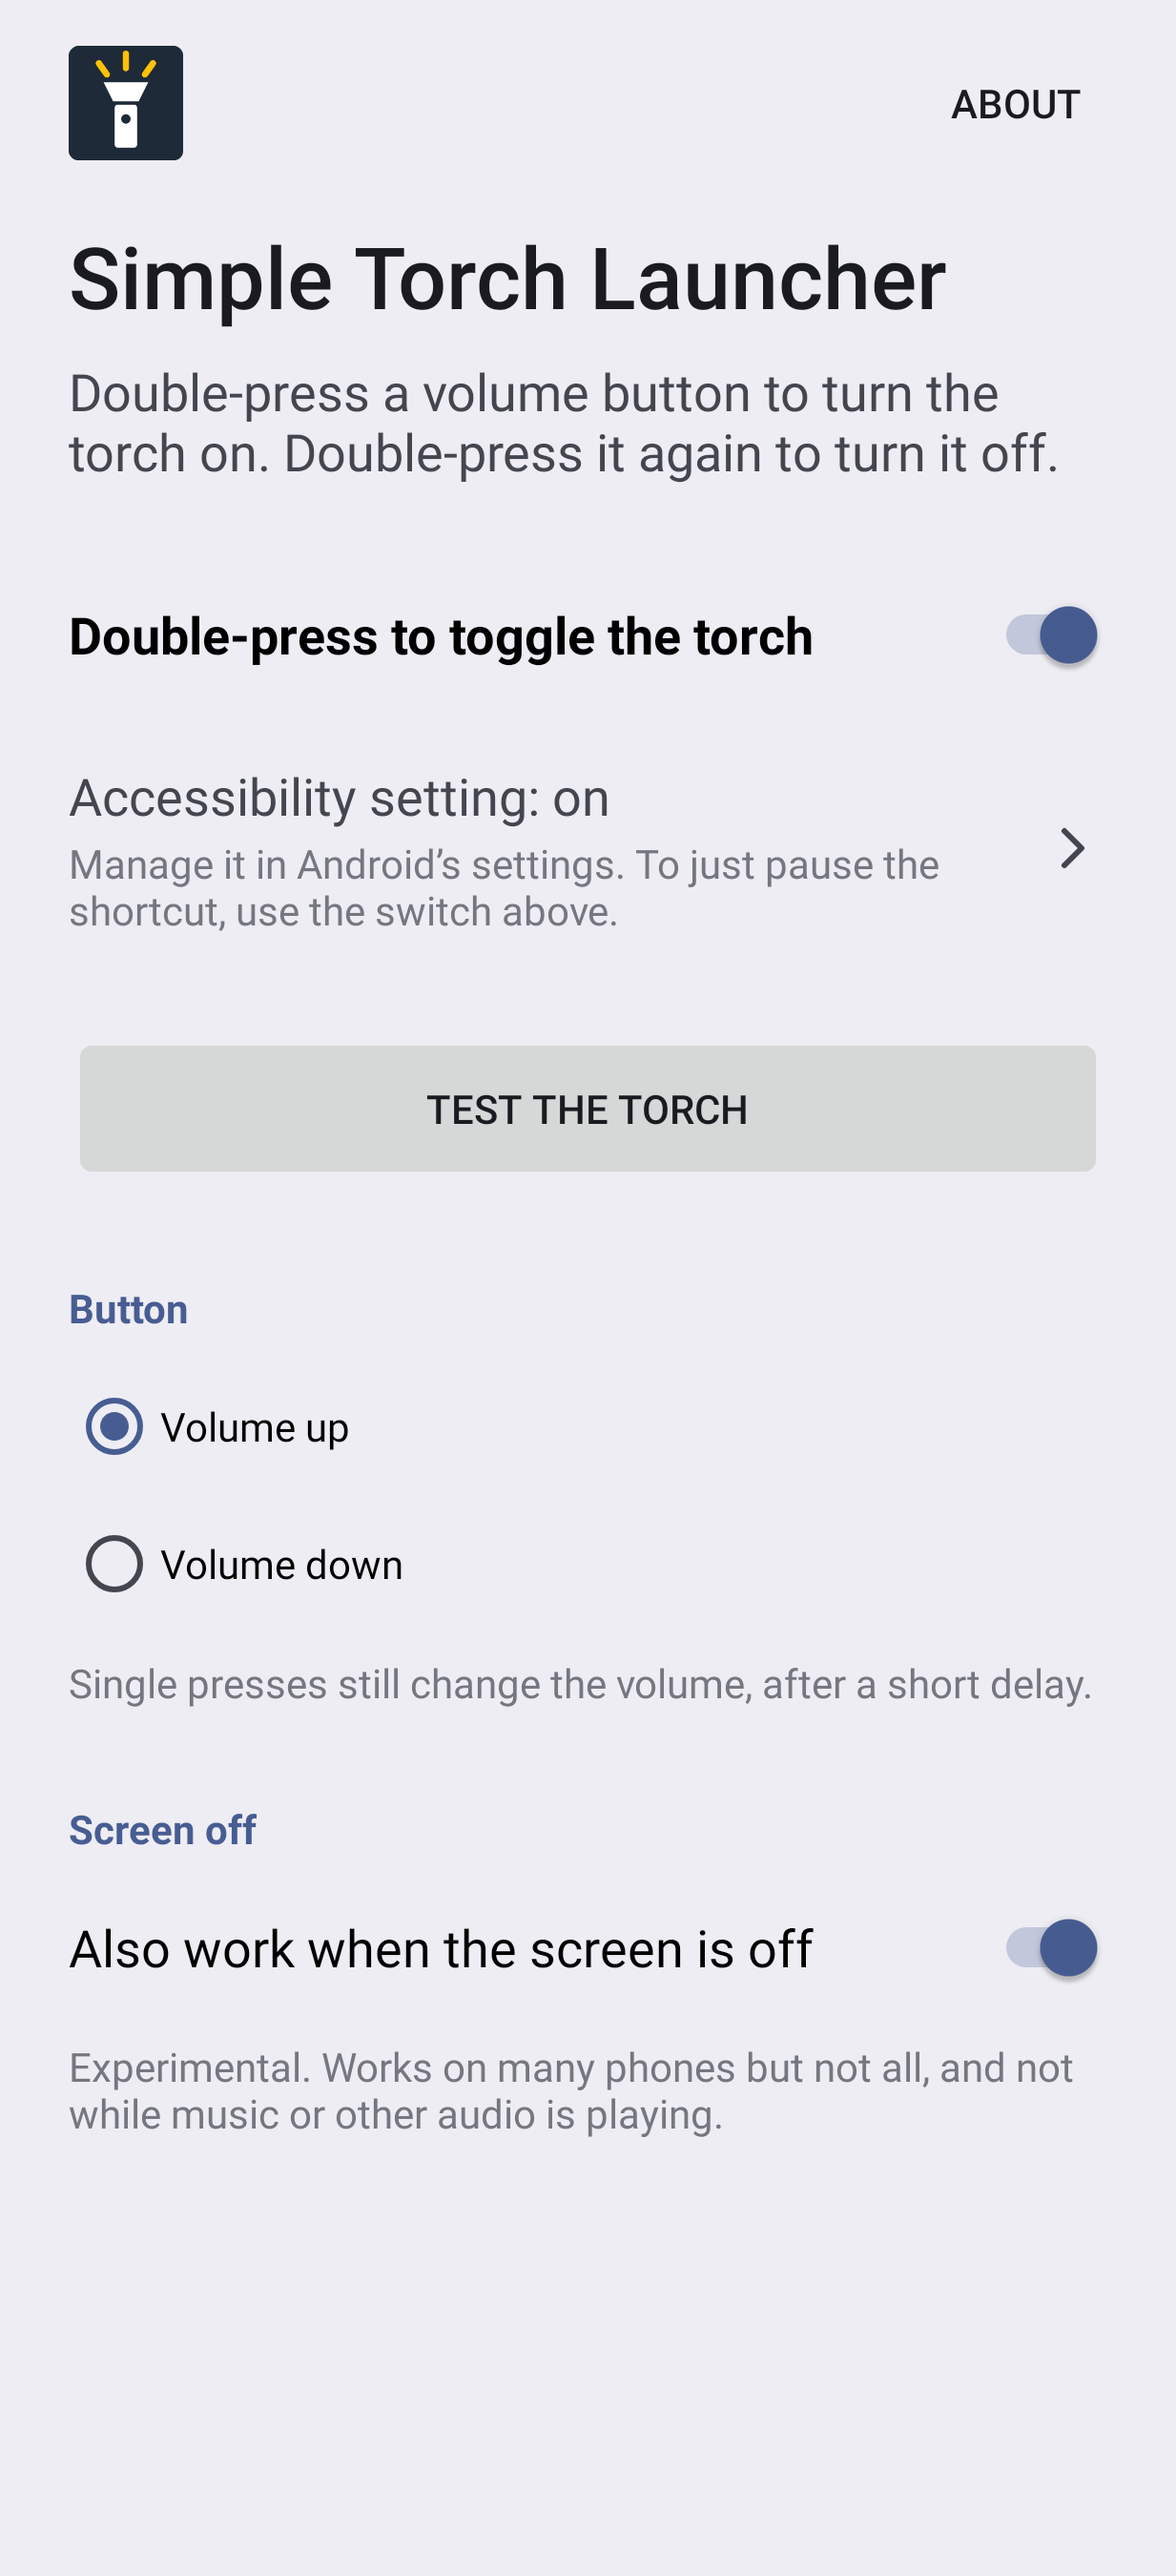
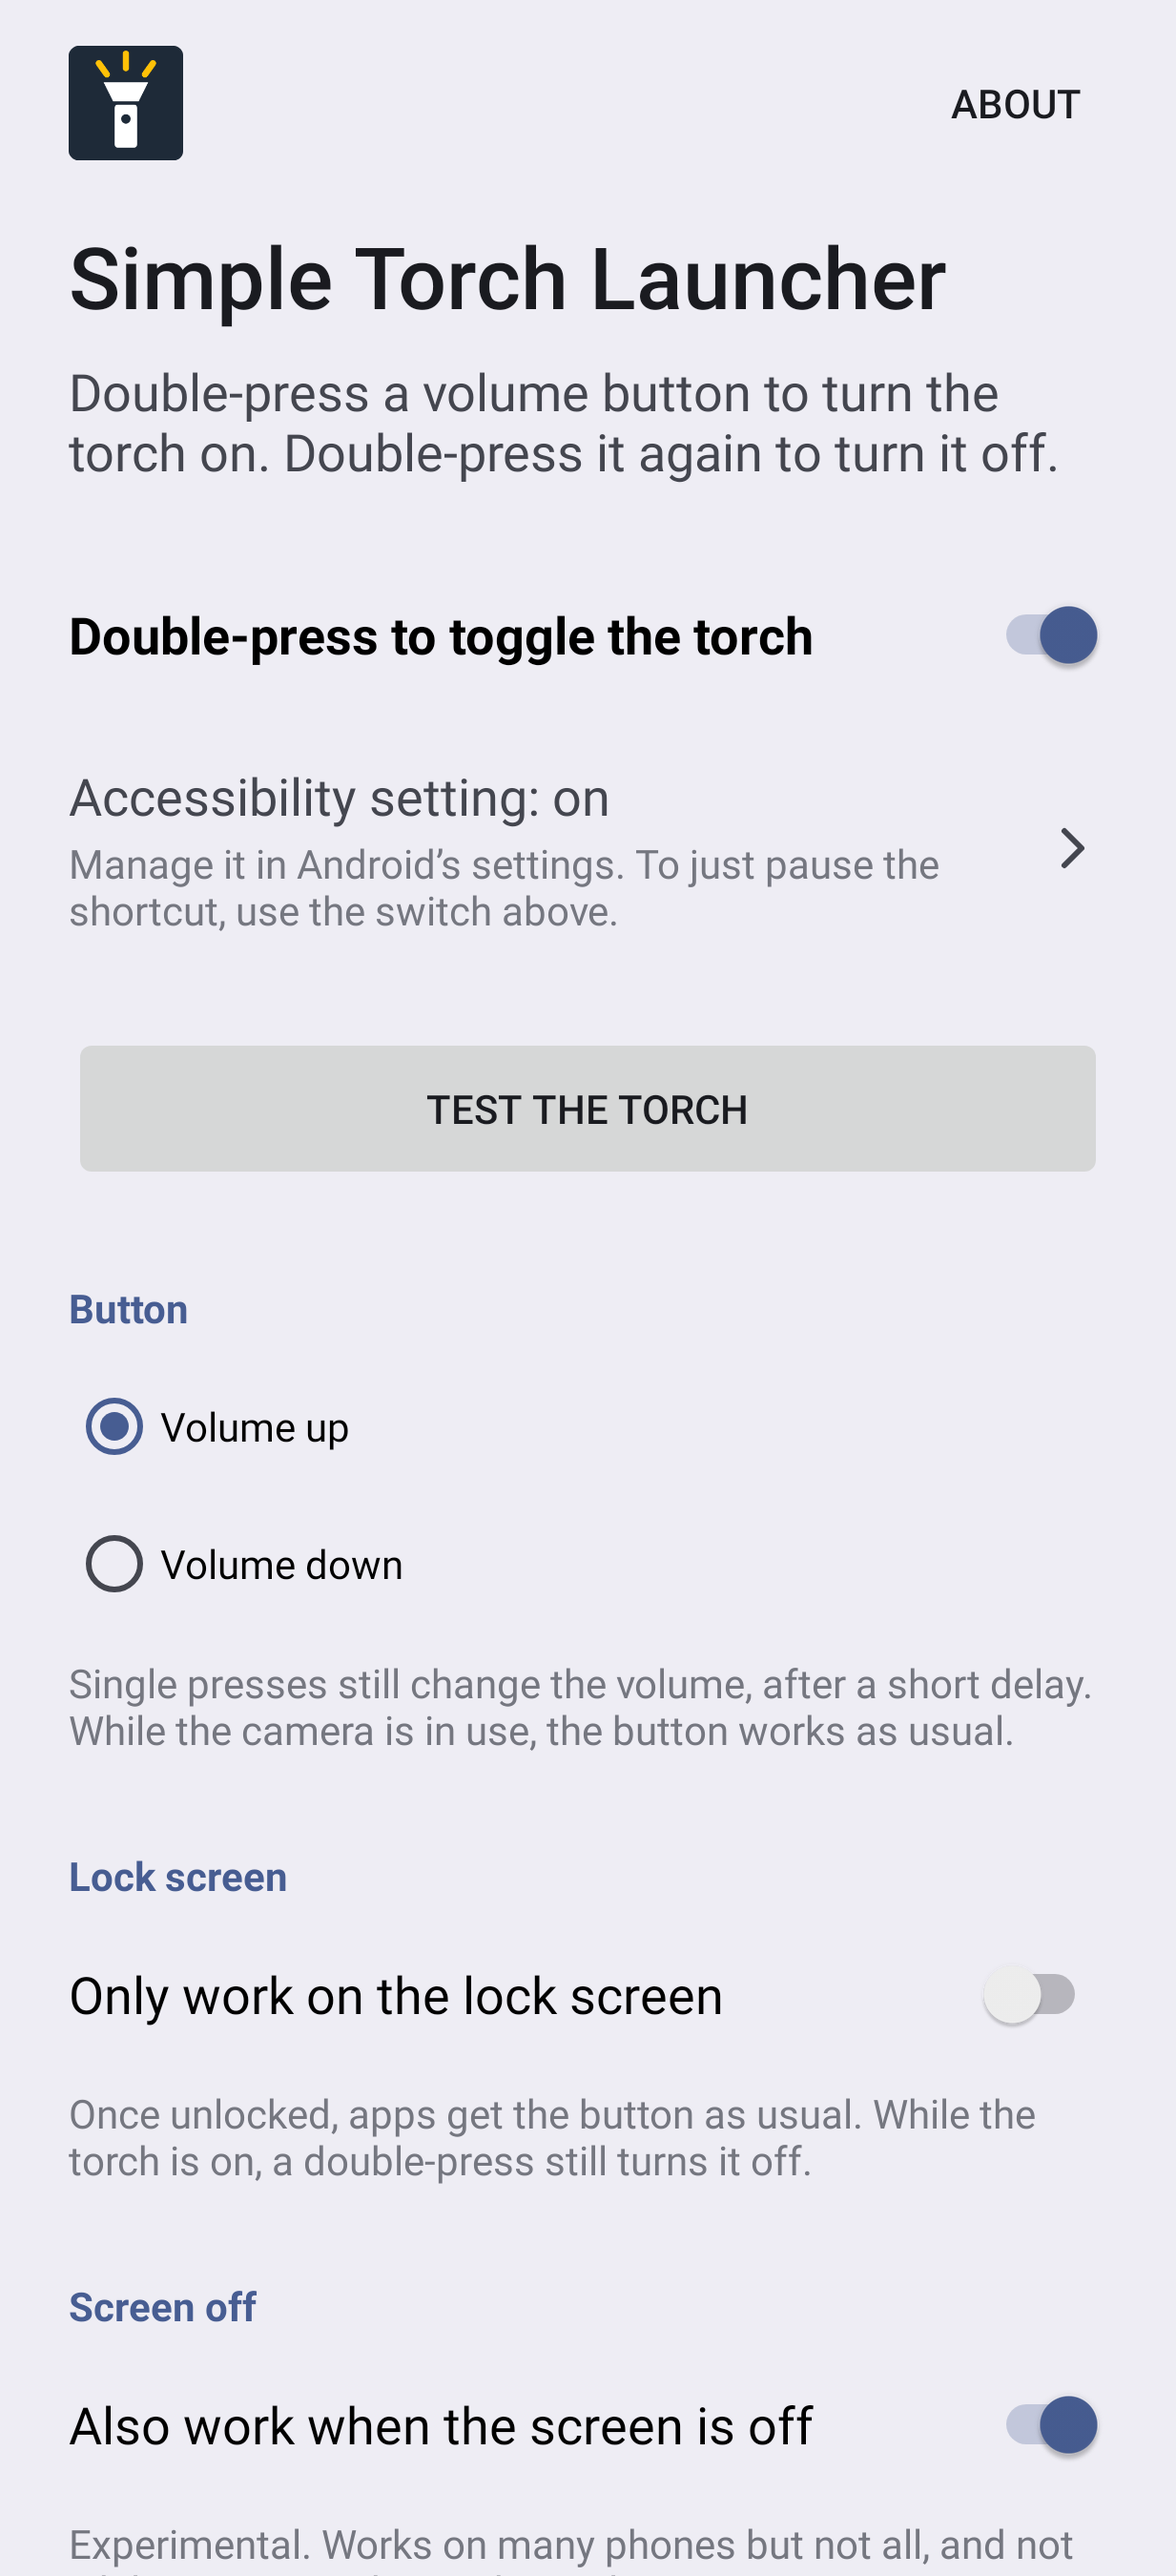
Let apps have the volume button while a camera is in use, or when unlocked
While any built-in camera is open, presses of the chosen button go to the app untouched, so camera apps can still use it as a shutter. The torch usually can't come on then anyway.

A new "Only work on the lock screen" option does the same whenever the phone is unlocked.

While the torch is on, the shortcut keeps working in both cases, so the torch can always be turned off. Each press is passed through or kept whole, never split between the app and the service.

diff --git a/app/src/main/java/dev/fanis/simpletorchlauncher/Torch.kt b/app/src/main/java/dev/fanis/simpletorchlauncher/Torch.kt
@@ -12,16 +12,24 @@ import android.os.Looper
  *
  * The torch state is tracked through a callback, so toggling also works when the torch was turned on
  * somewhere else, e.g. from the quick settings tile. [onChange] hears about every change.
+ *
+ * It also tracks whether another app has a camera open, which needs no permission either.
  */
 class Torch(context: Context, private val onChange: (isOn: Boolean) -> Unit = {}) {
 
     private val cameraManager = context.getSystemService(CameraManager::class.java)
+    private val handler = Handler(Looper.getMainLooper())
     private val cameraId = findFlashCamera()
+    private val builtInCameras = findBuiltInCameras()
+    private val camerasInUse = mutableSetOf<String>()
 
     val isAvailable get() = cameraId != null
 
     var isOn = false
         private set
+
+    /** Whether an app has a camera open, e.g. a camera app. The torch usually can't come on then. */
+    val isCameraInUse get() = camerasInUse.isNotEmpty()
 
     private val callback = object : CameraManager.TorchCallback() {
         override fun onTorchModeChanged(id: String, enabled: Boolean) {
@@ -37,8 +45,19 @@ class Torch(context: Context, private val onChange: (isOn: Boolean) -> Unit = {}
         }
     }
 
+    private val availabilityCallback = object : CameraManager.AvailabilityCallback() {
+        override fun onCameraAvailable(id: String) {
+            camerasInUse.remove(id)
+        }
+
+        override fun onCameraUnavailable(id: String) {
+            if (id in builtInCameras) camerasInUse.add(id)
+        }
+    }
+
     init {
-        cameraManager.registerTorchCallback(callback, Handler(Looper.getMainLooper()))
+        cameraManager.registerTorchCallback(callback, handler)
+        cameraManager.registerAvailabilityCallback(availabilityCallback, handler)
     }
 
     /** Returns whether the request went through. [onChange] reports the new state shortly after. */
@@ -58,6 +77,7 @@ class Torch(context: Context, private val onChange: (isOn: Boolean) -> Unit = {}
 
     fun release() {
         cameraManager.unregisterTorchCallback(callback)
+        cameraManager.unregisterAvailabilityCallback(availabilityCallback)
     }
 
     /** Prefers the back camera's flash, falling back to any camera that has one. */
@@ -72,5 +92,15 @@ class Torch(context: Context, private val onChange: (isOn: Boolean) -> Unit = {}
         } ?: withFlash.firstOrNull()
     } catch (_: CameraAccessException) {
         null
+    }
+
+    // An unplugged external camera reads as unavailable for good, so only built-in ones count.
+    private fun findBuiltInCameras(): Set<String> = try {
+        cameraManager.cameraIdList.filter {
+            cameraManager.getCameraCharacteristics(it)
+                .get(CameraCharacteristics.LENS_FACING) != CameraCharacteristics.LENS_FACING_EXTERNAL
+        }.toSet()
+    } catch (_: CameraAccessException) {
+        emptySet()
     }
 }

diff --git a/app/src/main/java/dev/fanis/simpletorchlauncher/TorchService.kt b/app/src/main/java/dev/fanis/simpletorchlauncher/TorchService.kt
@@ -2,6 +2,7 @@ package dev.fanis.simpletorchlauncher
 
 import android.accessibilityservice.AccessibilityService
 import android.accessibilityservice.AccessibilityServiceInfo
+import android.app.KeyguardManager
 import android.content.ComponentName
 import android.content.Context
 import android.content.Intent
@@ -22,6 +23,10 @@ import android.view.accessibility.AccessibilityEvent
  * follows, the torch toggles; otherwise the press is replayed as a normal volume change. This way a
  * double-press doesn't also change the volume.
  *
+ * While a camera is in use, or the phone is unlocked and the user only wants the shortcut on the lock
+ * screen, presses go to apps untouched instead, unless the torch is on: then the shortcut always
+ * works, so the torch can be turned off.
+ *
  * While the screen is off, [ScreenOffVolumeKeys] reports presses instead. There the volume doesn't
  * change on a press anyway, so nothing is held back.
  *
@@ -40,6 +45,10 @@ class TorchService : AccessibilityService(), SharedPreferences.OnSharedPreferenc
     // Screen on: the second press of a double-press is still held, so its key repeats must not
     // change the volume.
     private var ignoreRepeats = false
+
+    // Screen on: the current press goes to apps untouched. Decided once per press, so an app never
+    // gets half of one.
+    private var passThrough = false
 
     // Screen off: when the previous press arrived.
     private var lastScreenOffPress = 0L
@@ -89,9 +98,19 @@ class TorchService : AccessibilityService(), SharedPreferences.OnSharedPreferenc
 
     override fun onKeyEvent(event: KeyEvent): Boolean {
         if (!Prefs.enabled(this) || event.keyCode != Prefs.triggerKeyCode(this)) return false
+        if (event.action == KeyEvent.ACTION_DOWN && event.repeatCount == 0) passThrough = shouldPassThrough()
+        if (passThrough) return false
         if (event.action == KeyEvent.ACTION_DOWN) onTriggerKeyDown(event)
         // Swallow the whole press, key-up included. Volume changes are replayed by hand.
         return true
+    }
+
+    private fun shouldPassThrough(): Boolean {
+        val torch = torch ?: return false
+        if (torch.isOn) return false
+        // A camera app may use the button as a shutter, and the torch usually can't come on then.
+        if (torch.isCameraInUse) return true
+        return Prefs.lockScreenOnly(this) && !getSystemService(KeyguardManager::class.java).isKeyguardLocked
     }
 
     private fun onTriggerKeyDown(event: KeyEvent) {

diff --git a/app/src/main/java/dev/fanis/simpletorchlauncher/MainActivity.kt b/app/src/main/java/dev/fanis/simpletorchlauncher/MainActivity.kt
@@ -61,7 +61,15 @@ class MainActivity : Activity() {
             Prefs.setScreenOffEnabled(this, checked)
         }
 
-        options = listOf(findViewById<View>(R.id.volume_up), findViewById<View>(R.id.volume_down), screenOff)
+        val lockScreenOnly = findViewById<Switch>(R.id.lock_screen_only)
+        lockScreenOnly.isChecked = Prefs.lockScreenOnly(this)
+        lockScreenOnly.setOnCheckedChangeListener { _, checked ->
+            Prefs.setLockScreenOnly(this, checked)
+        }
+
+        options = listOf(
+            findViewById<View>(R.id.volume_up), findViewById<View>(R.id.volume_down), lockScreenOnly, screenOff
+        )
         val enabled = findViewById<Switch>(R.id.enabled)
         enabled.isChecked = Prefs.enabled(this)
         enabled.setOnCheckedChangeListener { _, checked ->

diff --git a/app/src/main/java/dev/fanis/simpletorchlauncher/Prefs.kt b/app/src/main/java/dev/fanis/simpletorchlauncher/Prefs.kt
@@ -9,6 +9,7 @@ object Prefs {
     private const val KEY_ENABLED = "enabled"
     private const val KEY_USE_VOLUME_DOWN = "use_volume_down"
     private const val KEY_SCREEN_OFF = "screen_off"
+    private const val KEY_LOCK_SCREEN_ONLY = "lock_screen_only"
 
     private fun prefs(context: Context) =
         context.getSharedPreferences("settings", Context.MODE_PRIVATE)
@@ -39,4 +40,10 @@ object Prefs {
 
     fun setScreenOffEnabled(context: Context, value: Boolean) =
         prefs(context).edit().putBoolean(KEY_SCREEN_OFF, value).apply()
+
+    fun lockScreenOnly(context: Context): Boolean =
+        prefs(context).getBoolean(KEY_LOCK_SCREEN_ONLY, false)
+
+    fun setLockScreenOnly(context: Context, value: Boolean) =
+        prefs(context).edit().putBoolean(KEY_LOCK_SCREEN_ONLY, value).apply()
 }

diff --git a/README.md b/README.md
@@ -9,6 +9,8 @@ Double-press a volume button to switch the torch (flashlight) on. Double-press i
 - Pick volume up or volume down as the trigger.
 - Single presses still change the volume as usual, after a short delay (400 ms).
 - Works on the lock screen, and optionally while the screen is off (experimental).
+- Optionally only on the lock screen, so apps get the button as usual once the phone is unlocked.
+- Steps aside while the camera is in use, so the button still works as a camera shutter.
 - An on/off switch in the app, and a button to test the torch.
 - Free and open source (MIT). No ads, no tracking, no internet permission, no dependencies.
 - Android 6.0 (API 23) and newer, targeting Android 17 (API 37).
@@ -54,7 +56,9 @@ Android's accessibility settings.
 - **Screen on (including the lock screen):** the accessibility service sees every press of the chosen
   button and holds it back for 400 ms. If a second press follows, the torch toggles and the volume stays
   as it was. If not, the press is replayed as a normal volume change. Holding the button still ramps the
-  volume.
+  volume. While a camera is in use, or the phone is unlocked with **Only work on the lock screen** on,
+  presses go to apps untouched instead. While the torch is on, the shortcut always works, so you can
+  turn it off.
 - **Screen off (experimental):** Android doesn't send key events to accessibility services while the
   screen is off. Instead, while the screen is off and nothing is playing, the app keeps a media session
   that claims to control a remote player's volume, so Android reports volume presses to it. This
@@ -74,8 +78,10 @@ is turned on in the accessibility settings.
 
 ## Limitations
 
-- Apps that use the chosen volume button for something else, like a camera shutter or turning pages,
-  get a volume change instead while the service is on.
+- Apps that use the chosen volume button for something else, like turning pages or snoozing an alarm,
+  get a volume change instead while the service is on. Camera apps are fine, since the app steps aside
+  while a camera is in use. To keep the button for apps whenever the phone is unlocked, turn on
+  **Only work on the lock screen**.
 - The torch can't be switched on while another app is using the camera.
 - If Android's Advanced Protection mode is on, it may block this service, because it isn't declared as
   an accessibility tool.

diff --git a/CHANGELOG.md b/CHANGELOG.md
@@ -7,6 +7,13 @@ and this project adheres to [Semantic Versioning](https://semver.org/spec/v2.0.0
 
 ## [Unreleased]
 
+### Added
+- An option to only work on the lock screen, so apps get the volume button as usual once the phone is unlocked.
+
+### Changed
+- While a camera is in use, the volume button goes to the app untouched, so it still works as a camera shutter.
+- While the torch is on, a double-press always turns it off, even in those cases.
+
 ## [1.0.0] - 2026-10-27
 
 ### Added
